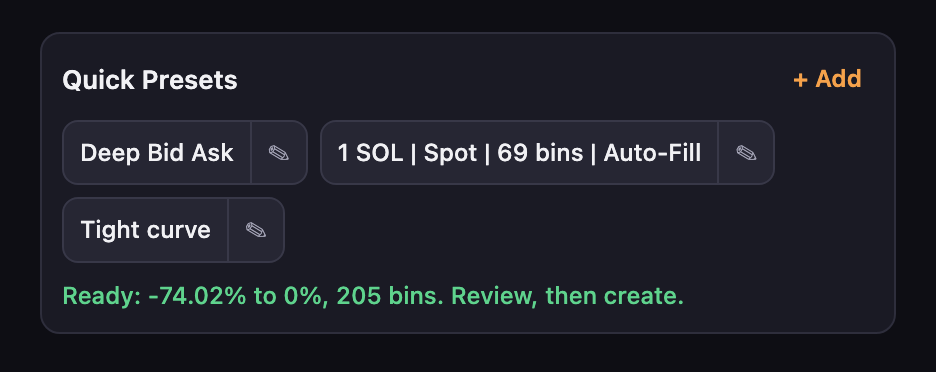
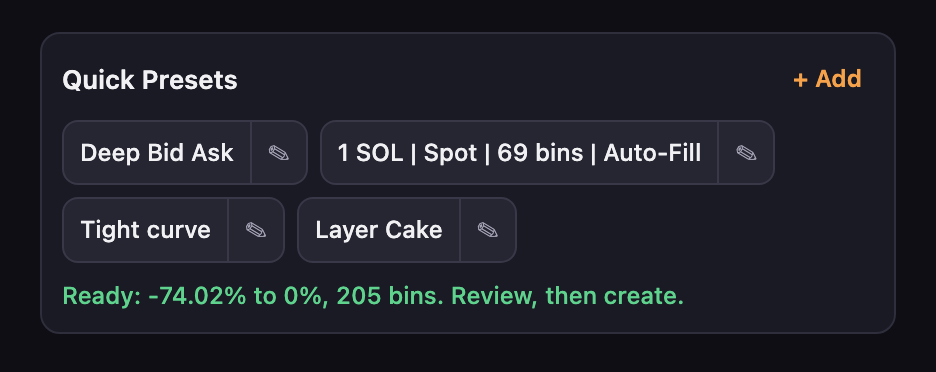
Show a Layer Cake preset in the README images

diff --git a/README.md b/README.md
@@ -15,7 +15,7 @@
 
 <br>
 
-<img src="docs/images/bar.png" width="620" alt="The Quick Presets bar with three preset buttons and a green message reading: Ready, -74.02% to 0%, 205 bins. Review, then create.">
+<img src="docs/images/bar.png" width="620" alt="The Quick Presets bar with four preset buttons and a green message reading: Ready, -74.02% to 0%, 205 bins. Review, then create.">
 
 </div>
 
